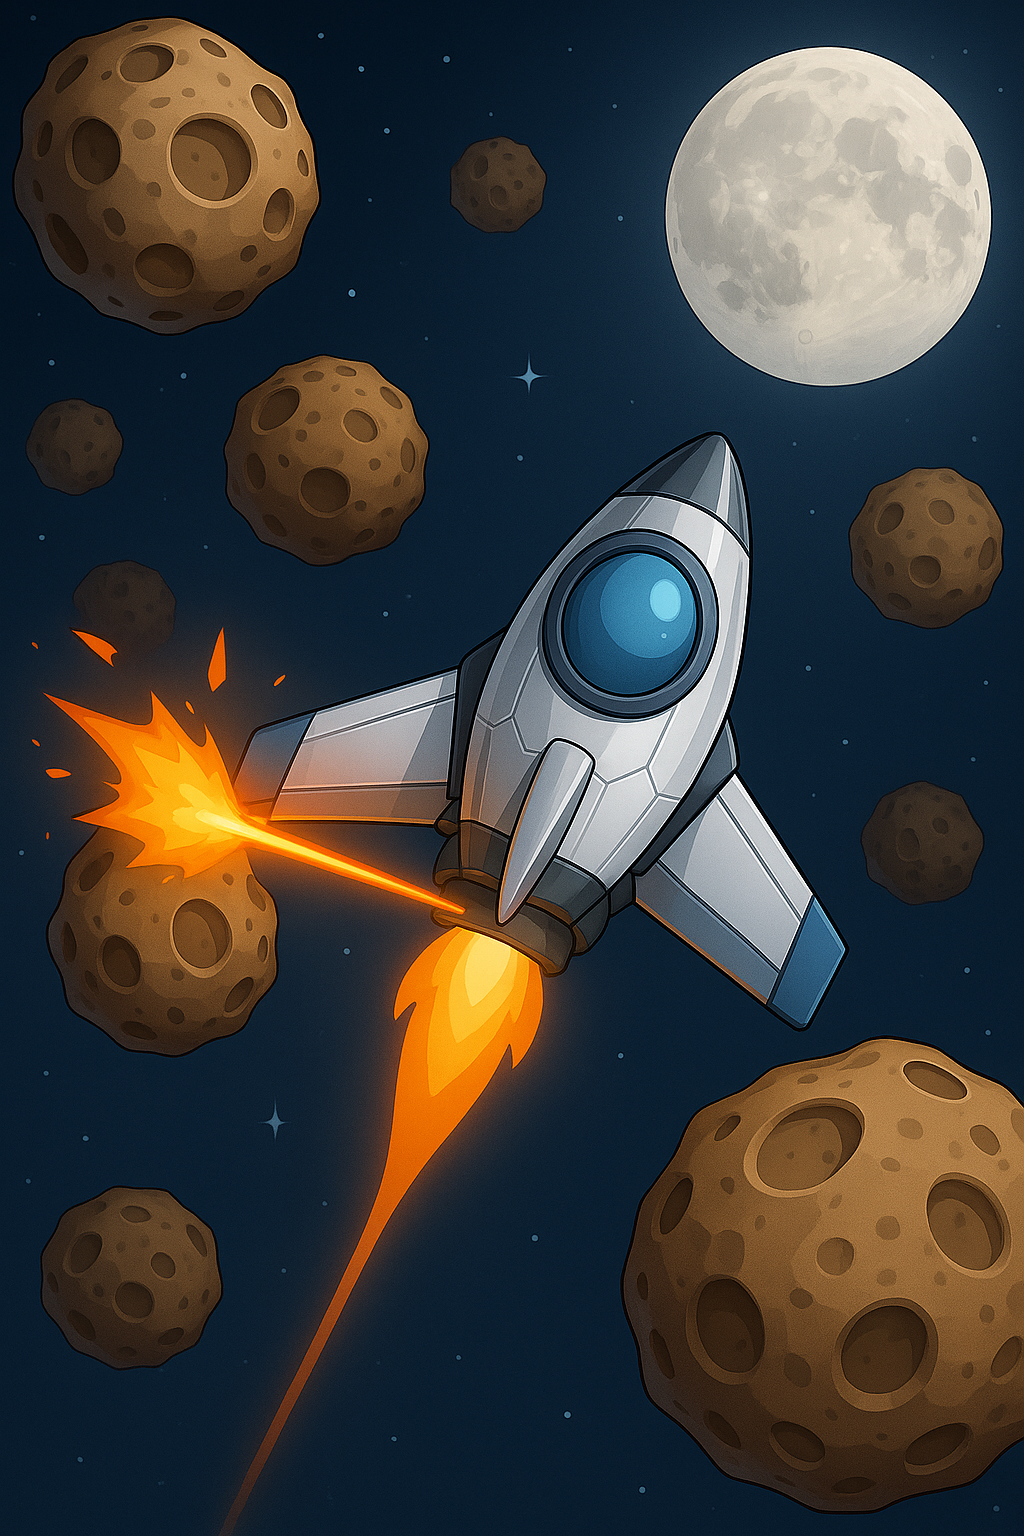
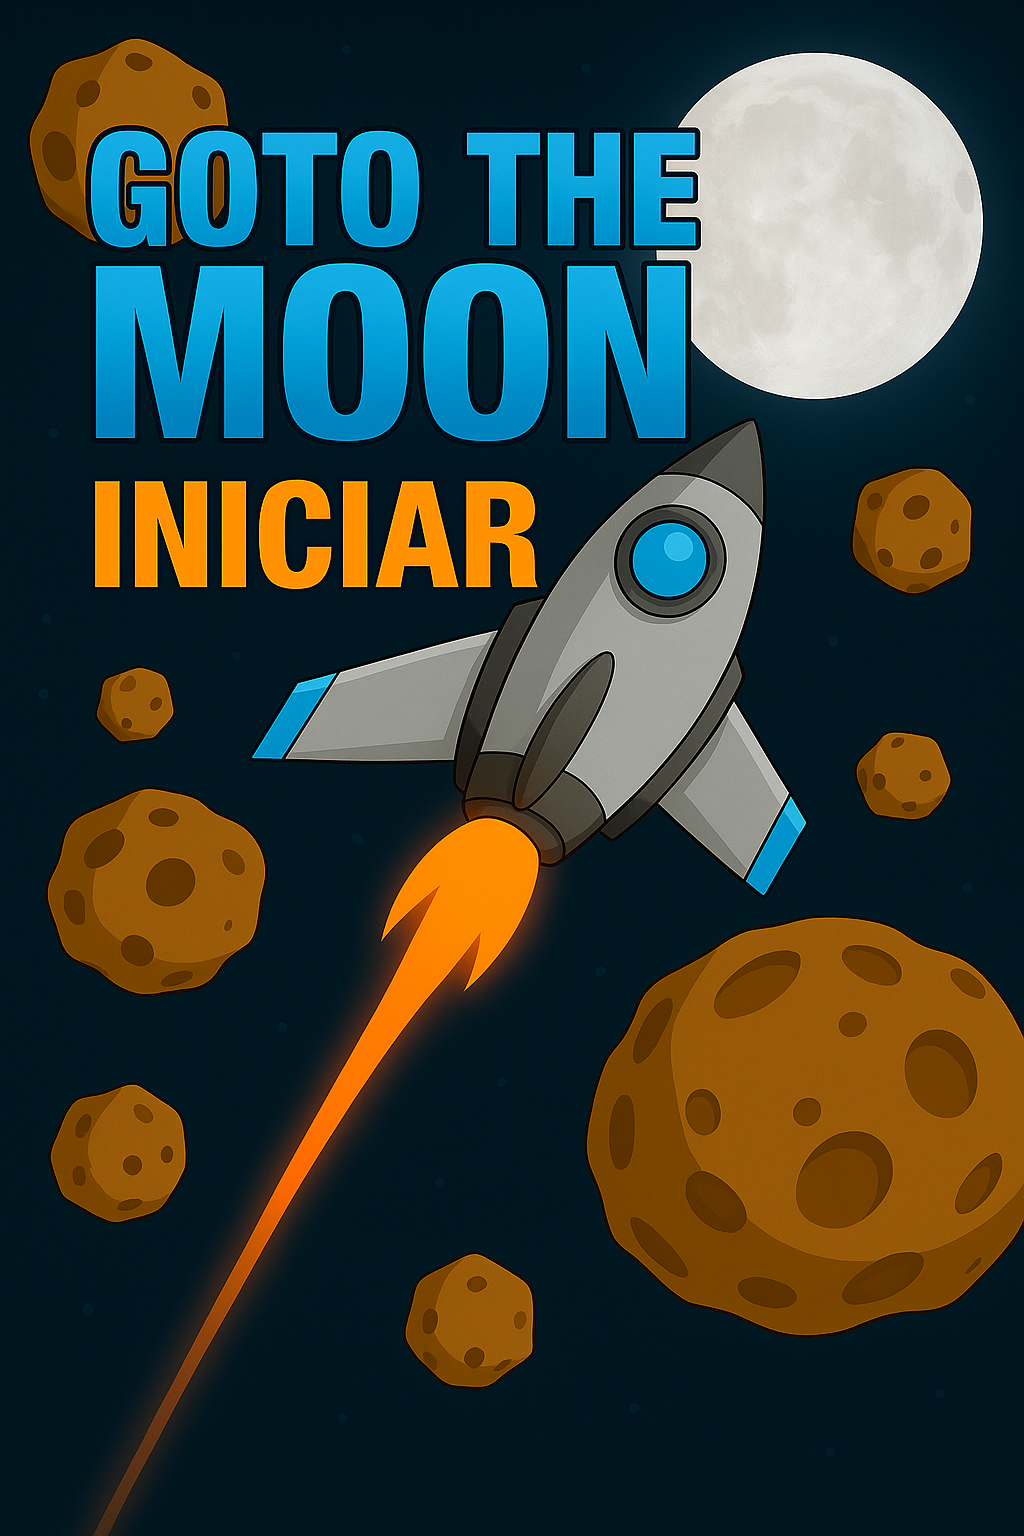
Merge pull request #1 from FMoreiraSouza/develop
Renomeação de package

Pull request: Renomeação de package

diff --git a/app/src/main/java/com/example/goto_the_moon/screen/StartScreen.kt b/app/src/main/java/com/example/goto_the_moon/screen/StartScreen.kt
@@ -1,0 +1,45 @@
+package com.example.goto_the_moon.screen
+
+import android.graphics.Color
+import android.view.MotionEvent
+import com.example.goto_the_moon.Game
+import com.example.goto_the_moon.utils.ResourceLoader
+
+class StartScreen(private val game: Game) : Screen(game) {
+    private val resourceLoader = ResourceLoader(game.context)
+
+    init {
+        loadResources()
+    }
+
+    private fun loadResources() {
+        resourceLoader.loadBitmap("start.png", 1080, 1920)
+    }
+
+    override fun update(dt: Float) {
+    }
+
+    override fun draw() {
+        resourceLoader.getBitmap("start.png")?.let {
+            canvas.drawBitmap(it, 0f, 0f, null)
+        } ?: canvas.drawColor(Color.BLACK)
+
+    }
+
+    override fun handleEvent(event: Int, x: Float, y: Float) {
+        if (event == MotionEvent.ACTION_DOWN) {
+            game.actualScreen = SpaceScreen(game)
+        }
+    }
+
+    override fun onPause() {
+        resourceLoader.release()
+    }
+
+    override fun onResume() {
+        loadResources()
+    }
+
+    override fun backPressed() {
+    }
+}